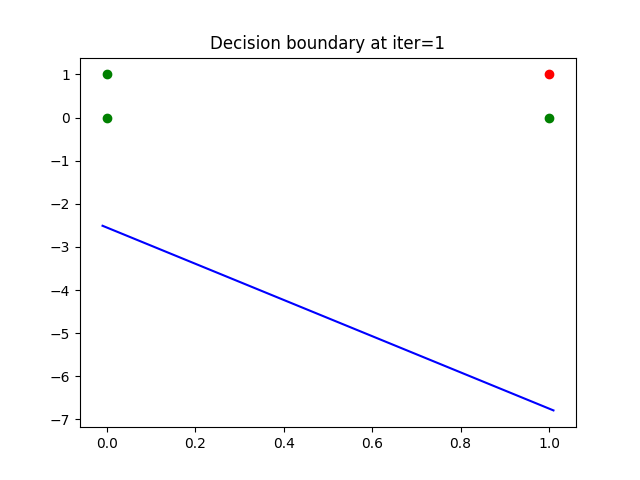
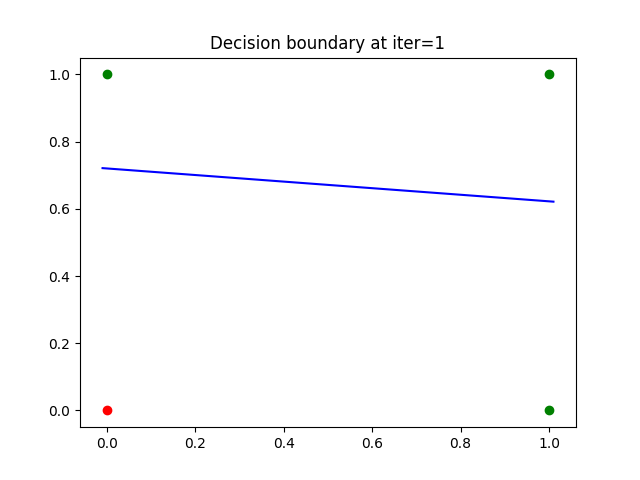
update perceptron

diff --git a/Perceptron/main.py b/Perceptron/main.py
@@ -2,11 +2,11 @@ import numpy as np
 from perceptron.pta import PTA
 import matplotlib.pyplot as plt
 
-OUTPUT_DIR = "outputs/NOT"
+OUTPUT_DIR = "outputs/XOR"
 
 # INPUTS
-X = np.array([[0, 0], [1, 0]])
-y = np.array([1, 0])
+X = np.array([[0, 0], [0, 1], [1, 0], [1, 1]])
+y = np.array([0, 1, 1, 0])
 
 
 def save_plot(iter, w):
